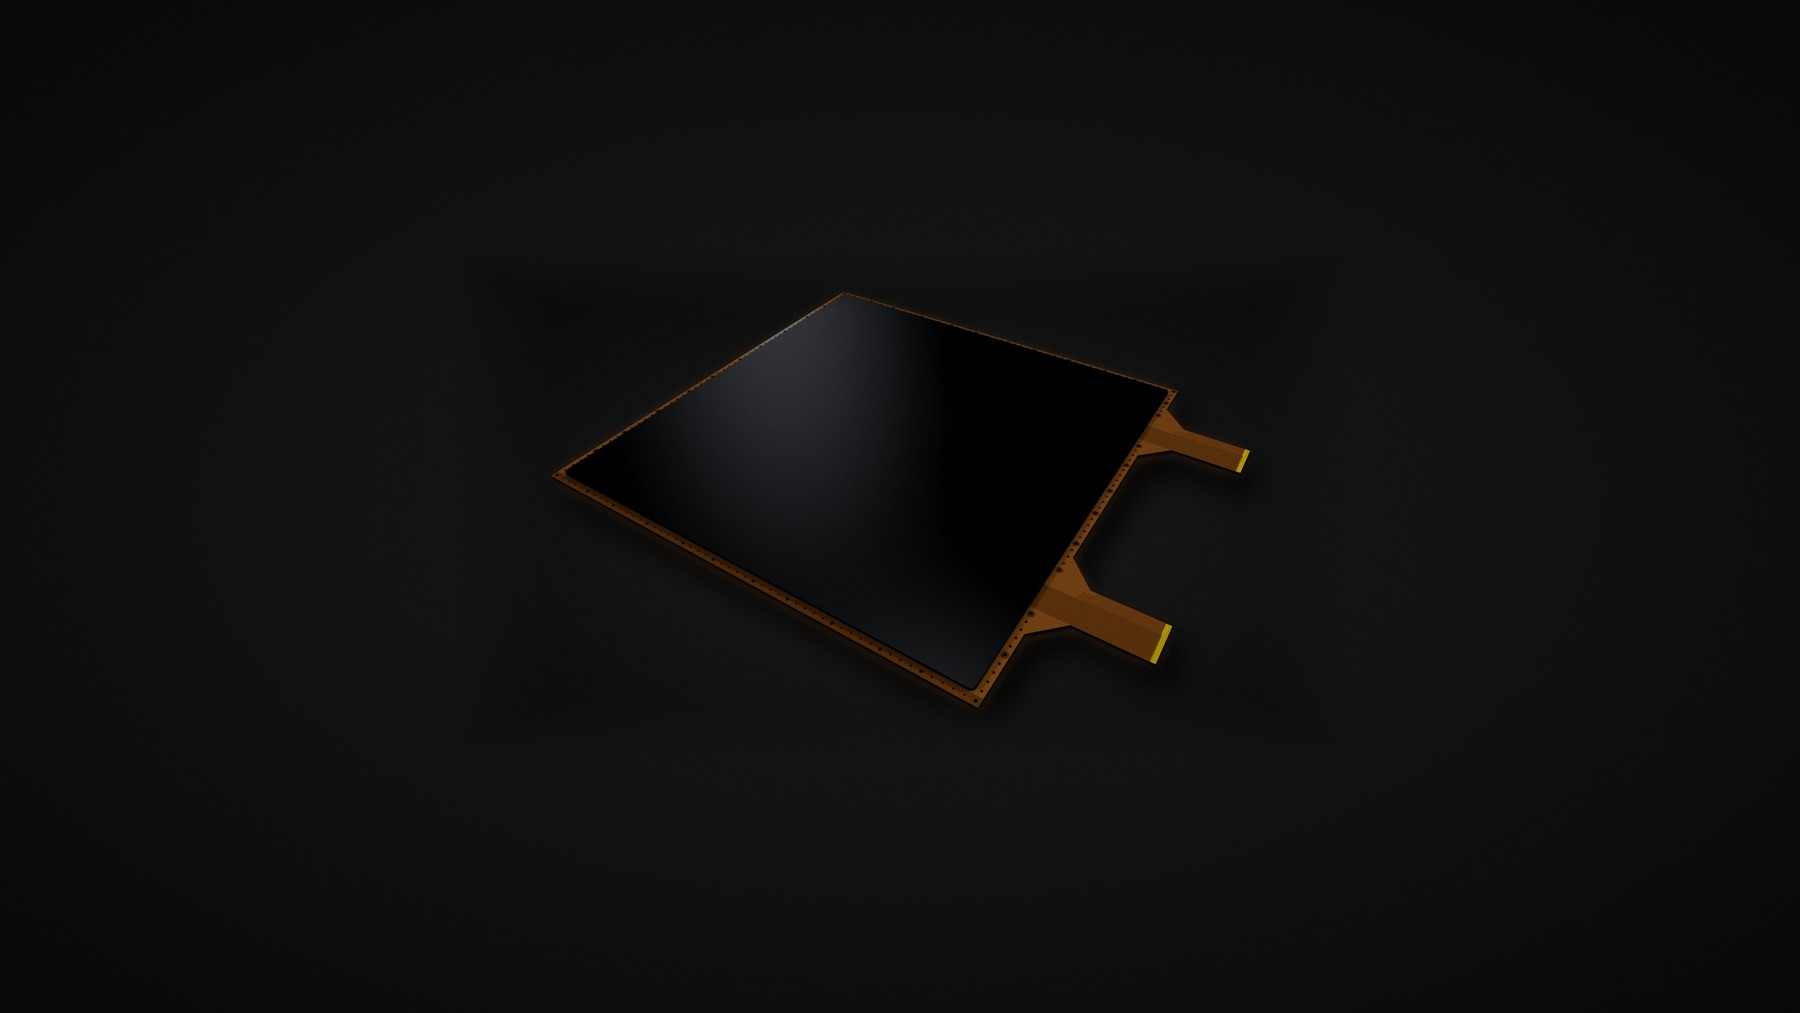
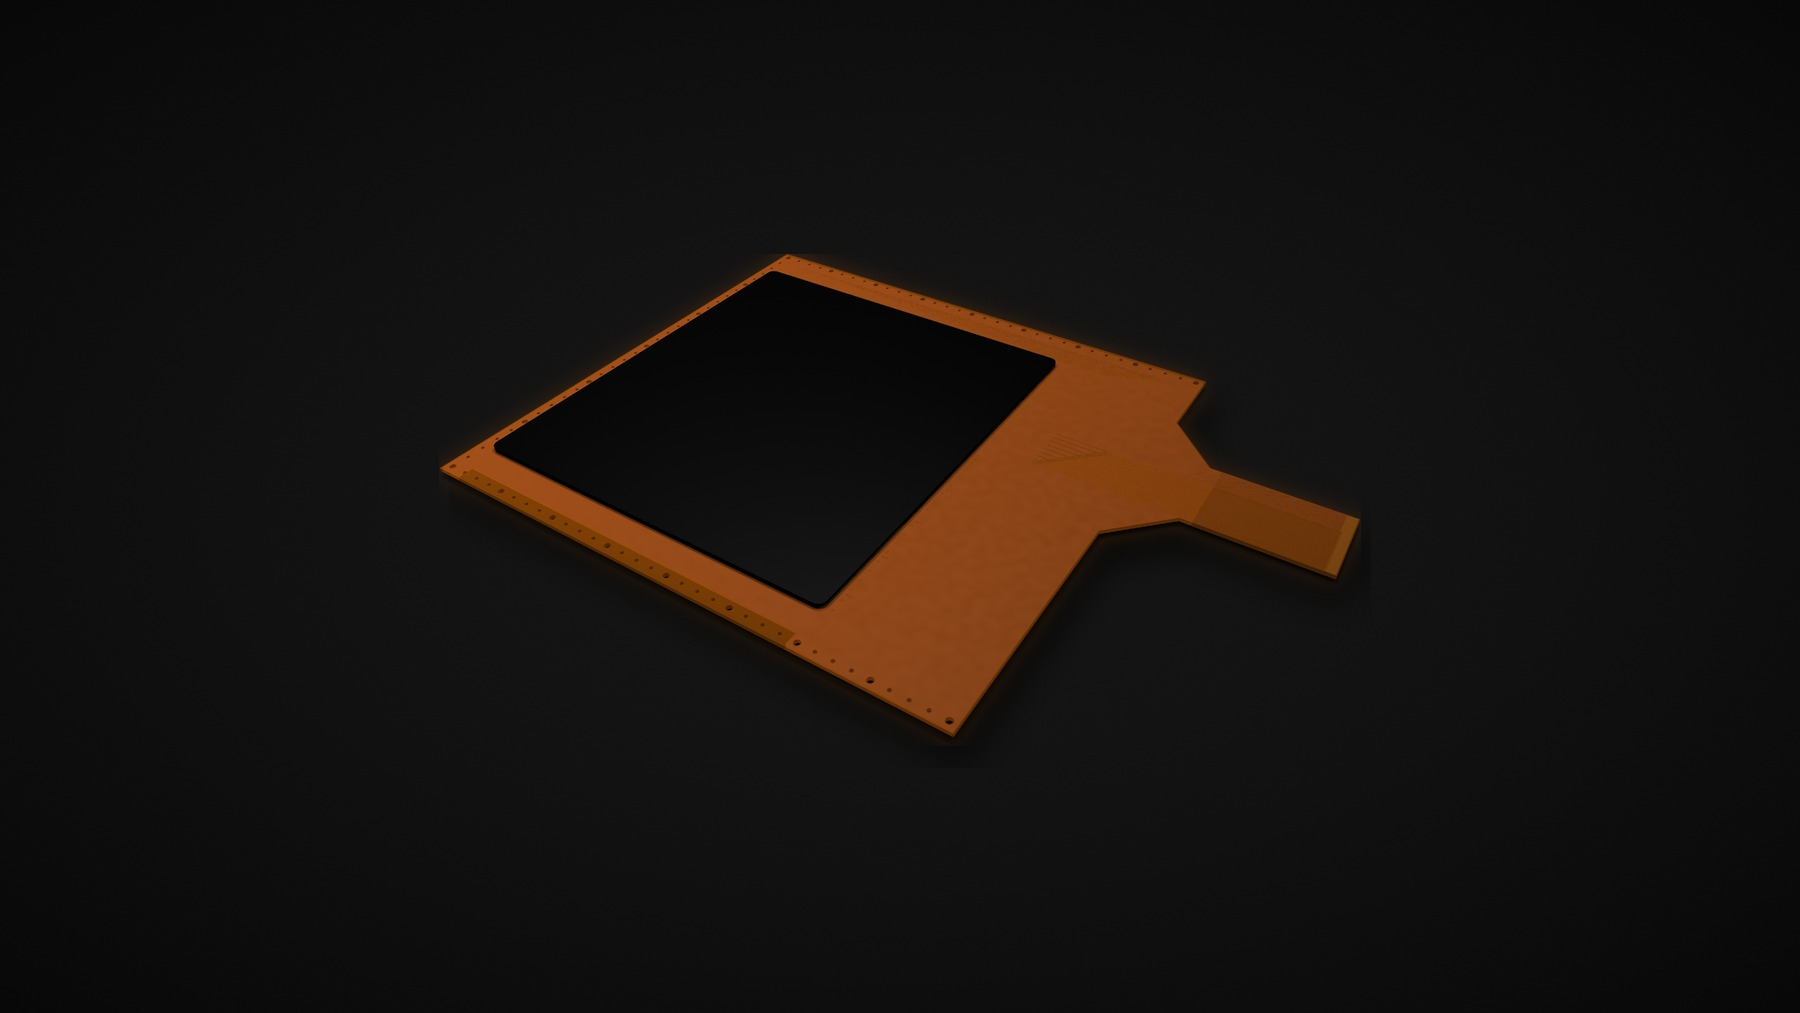
32x32 card: render of the real 32x32 KiCad layout (LuxTac_32x32, 1,024 OPT4048), true size vs the old 64x64 image
Claude-Session: https://claude.ai/code/session_01XzxWyG99k3VB5NJBDEiaFr

Changed region(s): [[0.2489, 0.2448, 0.7778, 0.7345], [0.3111, 0.3672, 0.3422, 0.3978], [0.28, 0.3978, 0.3111, 0.4284]]

diff --git a/index.html b/index.html
@@ -350,7 +350,7 @@
 
     <div class="mega-card reveal reveal-up" aria-label="32x32 LuxTac board">
       <div class="mega-media">
-        <img src="assets/boards/board-32x32-hero.jpg" alt="Render of the 32&times;32 LuxTac board under its black silicone skin" loading="lazy" draggable="false">
+        <img src="assets/boards/board-32x32-hero.jpg?v=real" alt="Render of the 32&times;32 LuxTac board under its black silicone skin" loading="lazy" draggable="false">
       </div>
       <p class="mega-slogan"><span>Faster</span> <span>Cheaper</span> <span>Better</span></p>
       <div class="mega-text">
